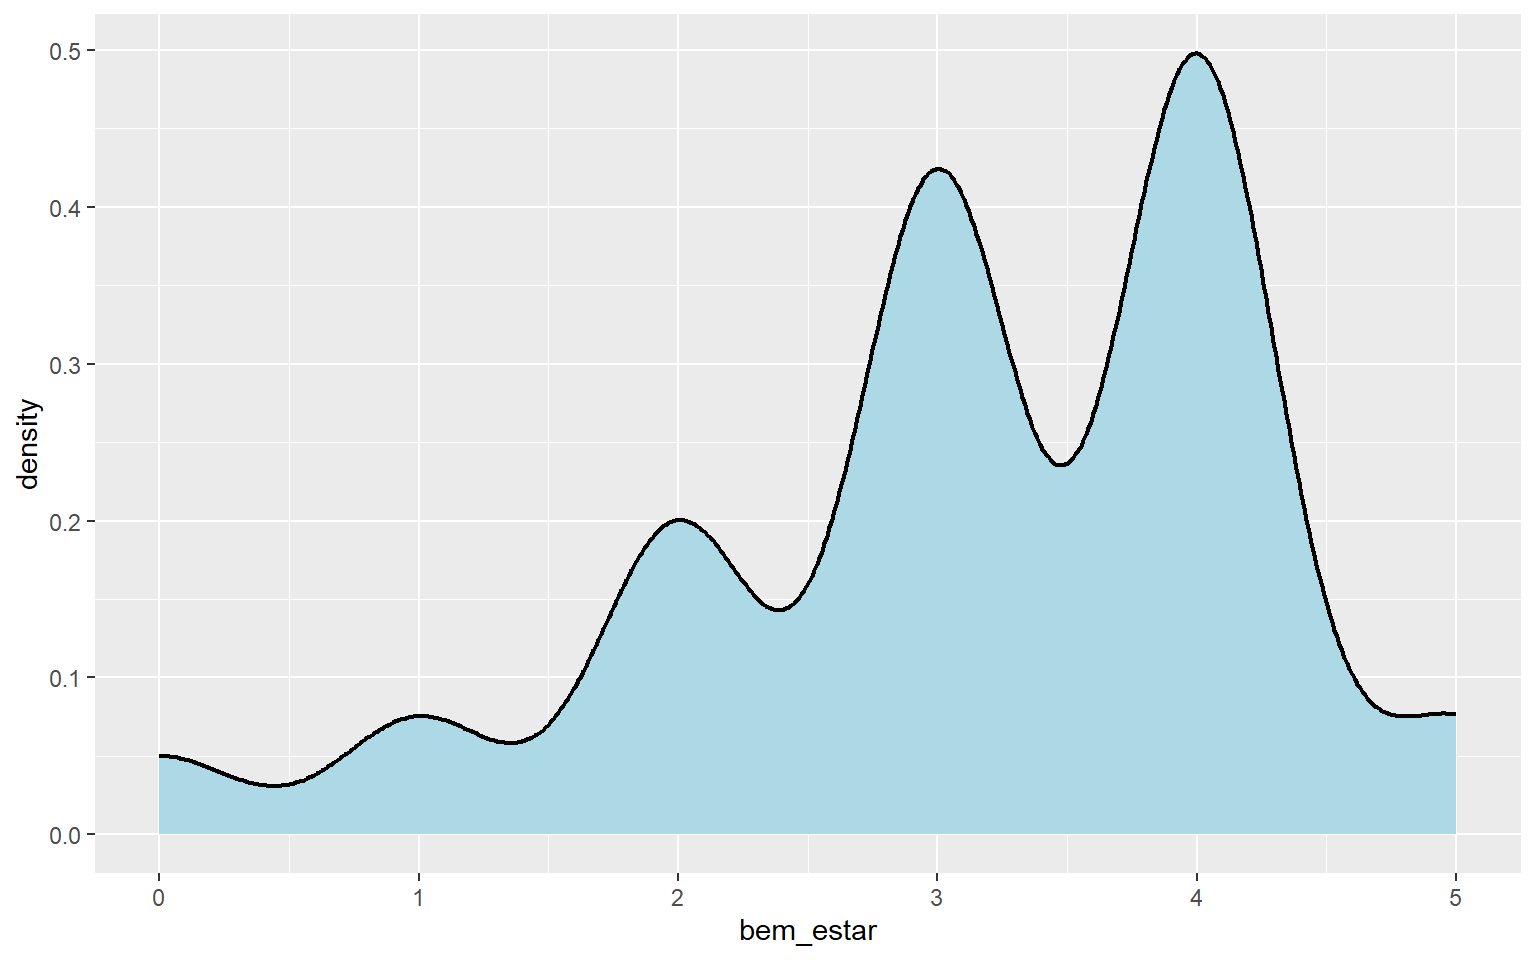
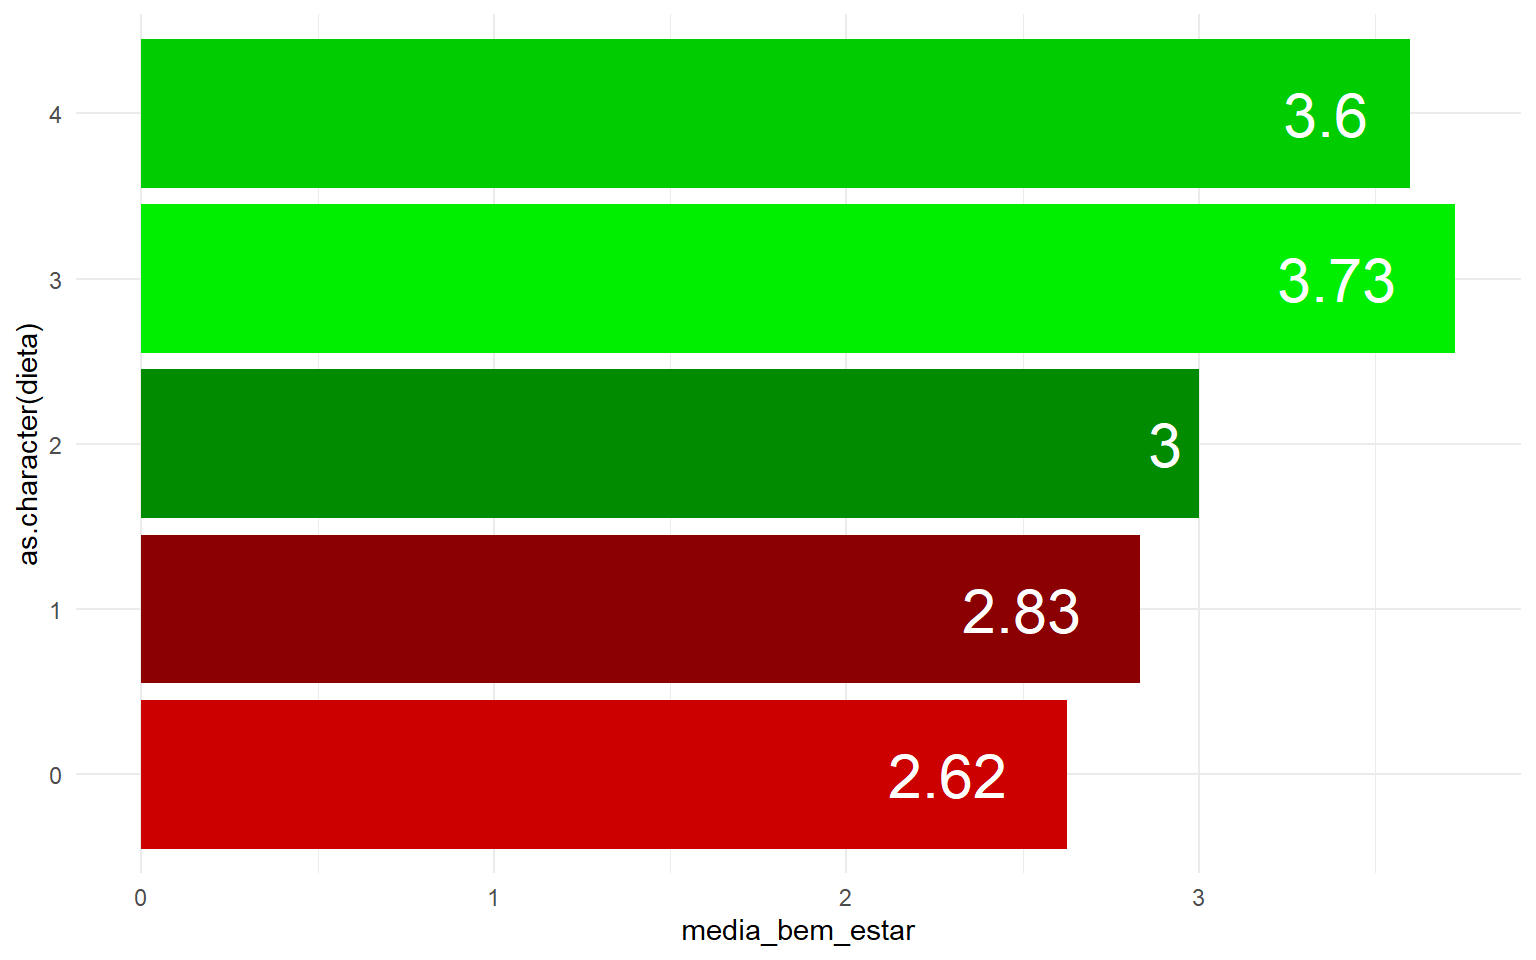
Atualizações

diff --git a/trabalho_dieta_treino/dashboard.html b/trabalho_dieta_treino/dashboard.html
@@ -70,14 +70,19 @@ ul.task-list li input[type="checkbox"] {
         
       </div>
     </div>
-<div id="dashboard-collapse" class="navbar-collapse collapse"><ul class="navbar-nav navbar-nav-scroll me-auto" role="tablist"><li class="nav-item" role="presentation"><a id="tab-alimentação-dieta-e-bem-estar" class="nav-link active" data-bs-toggle="tab" role="tab" data-bs-target="#alimentação-dieta-e-bem-estar" data-scrolling="true" href="#alimentação-dieta-e-bem-estar" aria-controls="alimentação-dieta-e-bem-estar" aria-selected="true"><span class="nav-link-text">Alimentação, dieta e bem-estar</span></a></li><li class="nav-item" role="presentation"><a id="tab-página-2" class="nav-link" data-bs-toggle="tab" role="tab" data-bs-target="#página-2" data-scrolling="true" href="#página-2" aria-controls="página-2" aria-selected="false"><span class="nav-link-text">Página 2</span></a></li></ul></div></div>
+<div id="dashboard-collapse" class="navbar-collapse collapse"><ul class="navbar-nav navbar-nav-scroll me-auto" role="tablist"><li class="nav-item" role="presentation"><a id="tab-página-inicial" class="nav-link active" data-bs-toggle="tab" role="tab" data-bs-target="#página-inicial" data-scrolling="true" href="#página-inicial" aria-controls="página-inicial" aria-selected="true"><span class="nav-link-text">Página inicial</span></a></li><li class="nav-item" role="presentation"><a id="tab-alimentação-dieta-e-bem-estar" class="nav-link" data-bs-toggle="tab" role="tab" data-bs-target="#alimentação-dieta-e-bem-estar" data-scrolling="true" href="#alimentação-dieta-e-bem-estar" aria-controls="alimentação-dieta-e-bem-estar" aria-selected="false"><span class="nav-link-text">Alimentação, dieta e bem-estar</span></a></li><li class="nav-item" role="presentation"><a id="tab-exercícios" class="nav-link" data-bs-toggle="tab" role="tab" data-bs-target="#exercícios" data-scrolling="true" href="#exercícios" aria-controls="exercícios" aria-selected="false"><span class="nav-link-text">Exercícios</span></a></li></ul></div></div>
 </nav>
 </header>
 <div class="page-layout-custom quarto-dashboard-content bslib-gap-spacing html-fill-container dashboard-scrolling quarto-dashboard-pages">  
 
 <div class="bslib-grid-item html-fill-item tab-content bslib-grid" data-layout="flow" style="display: grid; grid-template-rows: minmax(3em, 1fr); grid-auto-columns: minmax(0, 1fr);">
-<div id="alimentação-dieta-e-bem-estar" class="dashboard-page tab-pane show active html-fill-item html-fill-container" data-orientation="rows" aria-labelledby="tab-alimentação-dieta-e-bem-estar">
-<div class="html-fill-item html-fill-container bslib-grid" style="display: grid; grid-template-rows: minmax(3em, max-content) minmax(3em, 1fr) minmax(3em, 1fr); grid-auto-columns: minmax(0, 1fr);">
+<div id="página-inicial" class="dashboard-page tab-pane show active html-fill-item html-fill-container" data-orientation="rows" aria-labelledby="tab-página-inicial">
+<div class="html-fill-item html-fill-container bslib-grid" style="display: grid; grid-template-rows: ; grid-auto-columns: minmax(0, 1fr);">
+<!-- Página que irá explicar as variáveis que utilizamos na pesquisa -->
+</div>
+</div>
+<div id="alimentação-dieta-e-bem-estar" class="dashboard-page tab-pane grid-skip html-fill-item html-fill-container" data-orientation="rows" aria-labelledby="tab-alimentação-dieta-e-bem-estar">
+<div class="html-fill-item html-fill-container bslib-grid" style="display: grid; grid-template-rows: minmax(3em, max-content) minmax(3em, 1fr) minmax(3em, 1fr) minmax(3em, max-content) minmax(3em, 1fr); grid-auto-columns: minmax(0, 1fr);">
 <div class="card html-fill-item html-fill-container bslib-card" data-fill="false" data-bslib-card-init="" data-require-bs-caller="card()" data-full-screen="false">
 <div class="card-body html-fill-item html-fill-container">
 <strong>Alimentação e bem-estar</strong>
@@ -154,17 +159,39 @@ grid-auto-rows: minmax(0, 1fr);">
     </span>
 </bslib-tooltip><script data-bslib-card-init="">bslib.Card.initializeAllCards();</script></div>
 </div>
-</div>
-</div>
-<div id="página-2" class="dashboard-page tab-pane grid-skip html-fill-item html-fill-container" data-orientation="rows" aria-labelledby="tab-página-2">
-<div class="html-fill-item html-fill-container bslib-grid" style="display: grid; grid-template-rows: minmax(3em, 1fr) minmax(3em, max-content); grid-auto-columns: minmax(0, 1fr);">
 <div class="html-fill-item html-fill-container bslib-grid" style="display: grid; grid-template-columns: minmax(3em, 1fr);
+grid-auto-rows: minmax(0, 1fr);">
+<div class="card html-fill-item html-fill-container bslib-card" data-fill="false" data-bslib-card-init="" data-require-bs-caller="card()" data-full-screen="false">
+<div class="card-body html-fill-item html-fill-container">
+<strong>Dieta e Bem-estar</strong>
+</div>
+<bslib-tooltip placement="auto" bsoptions="[]" data-require-bs-version="5" data-require-bs-caller="tooltip()">
+    <template>Expand</template>
+    <span class="bslib-full-screen-enter badge rounded-pill">
+        <svg xmlns="http://www.w3.org/2000/svg" viewbox="0 0 24 24" style="height:1em;width:1em;" aria-hidden="true" role="img"><path d="M20 5C20 4.4 19.6 4 19 4H13C12.4 4 12 3.6 12 3C12 2.4 12.4 2 13 2H21C21.6 2 22 2.4 22 3V11C22 11.6 21.6 12 21 12C20.4 12 20 11.6 20 11V5ZM4 19C4 19.6 4.4 20 5 20H11C11.6 20 12 20.4 12 21C12 21.6 11.6 22 11 22H3C2.4 22 2 21.6 2 21V13C2 12.4 2.4 12 3 12C3.6 12 4 12.4 4 13V19Z"></path></svg>
+    </span>
+</bslib-tooltip><script data-bslib-card-init="">bslib.Card.initializeAllCards();</script></div>
+</div>
+<div class="html-fill-item html-fill-container bslib-grid" style="display: grid; grid-template-columns: minmax(3em, 30fr) minmax(3em, 70fr);
 grid-auto-rows: minmax(0, 1fr);">
 <div class="html-fill-item html-fill-container bslib-grid" style="display: grid; grid-template-rows: minmax(3em, 1fr); grid-auto-columns: minmax(0, 1fr);">
 <div class="card cell html-fill-item html-fill-container bslib-card" data-bslib-card-init="" data-require-bs-caller="card()" data-full-screen="false">
 <div class="card-body html-fill-item html-fill-container">
+<div class="cell-output cell-output-stdout html-fill-item html-fill-container">
+<pre><code>[1] "Explicação do gráfico 2"</code></pre>
+</div>
+</div>
+<bslib-tooltip placement="auto" bsoptions="[]" data-require-bs-version="5" data-require-bs-caller="tooltip()">
+    <template>Expand</template>
+    <span class="bslib-full-screen-enter badge rounded-pill">
+        <svg xmlns="http://www.w3.org/2000/svg" viewbox="0 0 24 24" style="height:1em;width:1em;" aria-hidden="true" role="img"><path d="M20 5C20 4.4 19.6 4 19 4H13C12.4 4 12 3.6 12 3C12 2.4 12.4 2 13 2H21C21.6 2 22 2.4 22 3V11C22 11.6 21.6 12 21 12C20.4 12 20 11.6 20 11V5ZM4 19C4 19.6 4.4 20 5 20H11C11.6 20 12 20.4 12 21C12 21.6 11.6 22 11 22H3C2.4 22 2 21.6 2 21V13C2 12.4 2.4 12 3 12C3.6 12 4 12.4 4 13V19Z"></path></svg>
+    </span>
+</bslib-tooltip><script data-bslib-card-init="">bslib.Card.initializeAllCards();</script></div>
+</div><div class="html-fill-item html-fill-container bslib-grid" style="display: grid; grid-template-rows: minmax(3em, 1fr); grid-auto-columns: minmax(0, 1fr);">
+<div class="card cell html-fill-item html-fill-container bslib-card" data-bslib-card-init="" data-require-bs-caller="card()" data-full-screen="false">
+<div class="card-body html-fill-item html-fill-container">
 <div class="cell-output-display html-fill-item html-fill-container">
-<img src="dashboard_files/figure-html/unnamed-chunk-6-1.png" class="img-fluid quarto-dashboard-img-contain">
+<img src="dashboard_files/figure-html/unnamed-chunk-7-1.png" class="img-fluid quarto-dashboard-img-contain">
 </div>
 </div>
 <bslib-tooltip placement="auto" bsoptions="[]" data-require-bs-version="5" data-require-bs-caller="tooltip()">
@@ -175,9 +202,39 @@ grid-auto-rows: minmax(0, 1fr);">
 </bslib-tooltip><script data-bslib-card-init="">bslib.Card.initializeAllCards();</script></div>
 </div>
 </div>
-<div class="html-fill-item html-fill-container bslib-grid" style="display: grid; grid-template-columns: ;
+</div>
+</div>
+<div id="exercícios" class="dashboard-page tab-pane grid-skip html-fill-item html-fill-container" data-orientation="rows" aria-labelledby="tab-exercícios">
+<div class="html-fill-item html-fill-container bslib-grid" style="display: grid; grid-template-rows: 400px 400px; grid-auto-columns: minmax(0, 1fr);">
+<div class="html-fill-item html-fill-container bslib-grid" style="display: grid; grid-template-columns: minmax(3em, 1fr);
 grid-auto-rows: minmax(0, 1fr);">
-<div id="3ade8a4a-fb1d-4a6c-8409-ac45482d5fc9" class="hidden html-fill-item html-fill-container">
+<div class="card cell html-fill-item html-fill-container bslib-card" data-bslib-card-init="" data-require-bs-caller="card()" data-full-screen="false">
+<div class="card-body html-fill-item html-fill-container">
+<div class="cell-output-display column-page html-fill-item html-fill-container">
+<img src="dashboard_files/figure-html/unnamed-chunk-8-1.png" class="img-fluid quarto-dashboard-img-contain">
+</div>
+</div>
+<bslib-tooltip placement="auto" bsoptions="[]" data-require-bs-version="5" data-require-bs-caller="tooltip()">
+    <template>Expand</template>
+    <span class="bslib-full-screen-enter badge rounded-pill">
+        <svg xmlns="http://www.w3.org/2000/svg" viewbox="0 0 24 24" style="height:1em;width:1em;" aria-hidden="true" role="img"><path d="M20 5C20 4.4 19.6 4 19 4H13C12.4 4 12 3.6 12 3C12 2.4 12.4 2 13 2H21C21.6 2 22 2.4 22 3V11C22 11.6 21.6 12 21 12C20.4 12 20 11.6 20 11V5ZM4 19C4 19.6 4.4 20 5 20H11C11.6 20 12 20.4 12 21C12 21.6 11.6 22 11 22H3C2.4 22 2 21.6 2 21V13C2 12.4 2.4 12 3 12C3.6 12 4 12.4 4 13V19Z"></path></svg>
+    </span>
+</bslib-tooltip><script data-bslib-card-init="">bslib.Card.initializeAllCards();</script></div>
+</div>
+<div class="html-fill-item html-fill-container bslib-grid" style="display: grid; grid-template-columns: minmax(3em, 1fr);
+grid-auto-rows: minmax(0, 1fr);">
+<div class="card cell html-fill-item html-fill-container bslib-card" data-bslib-card-init="" data-require-bs-caller="card()" data-full-screen="false">
+<div class="card-body html-fill-item html-fill-container">
+<div class="cell-output-display column-page html-fill-item html-fill-container">
+<img src="dashboard_files/figure-html/unnamed-chunk-9-1.png" class="img-fluid quarto-dashboard-img-contain">
+</div>
+</div>
+<bslib-tooltip placement="auto" bsoptions="[]" data-require-bs-version="5" data-require-bs-caller="tooltip()">
+    <template>Expand</template>
+    <span class="bslib-full-screen-enter badge rounded-pill">
+        <svg xmlns="http://www.w3.org/2000/svg" viewbox="0 0 24 24" style="height:1em;width:1em;" aria-hidden="true" role="img"><path d="M20 5C20 4.4 19.6 4 19 4H13C12.4 4 12 3.6 12 3C12 2.4 12.4 2 13 2H21C21.6 2 22 2.4 22 3V11C22 11.6 21.6 12 21 12C20.4 12 20 11.6 20 11V5ZM4 19C4 19.6 4.4 20 5 20H11C11.6 20 12 20.4 12 21C12 21.6 11.6 22 11 22H3C2.4 22 2 21.6 2 21V13C2 12.4 2.4 12 3 12C3.6 12 4 12.4 4 13V19Z"></path></svg>
+    </span>
+</bslib-tooltip><script data-bslib-card-init="">bslib.Card.initializeAllCards();</script></div><div id="3ade8a4a-fb1d-4a6c-8409-ac45482d5fc9" class="hidden html-fill-item html-fill-container">
 
 </div>
 </div>